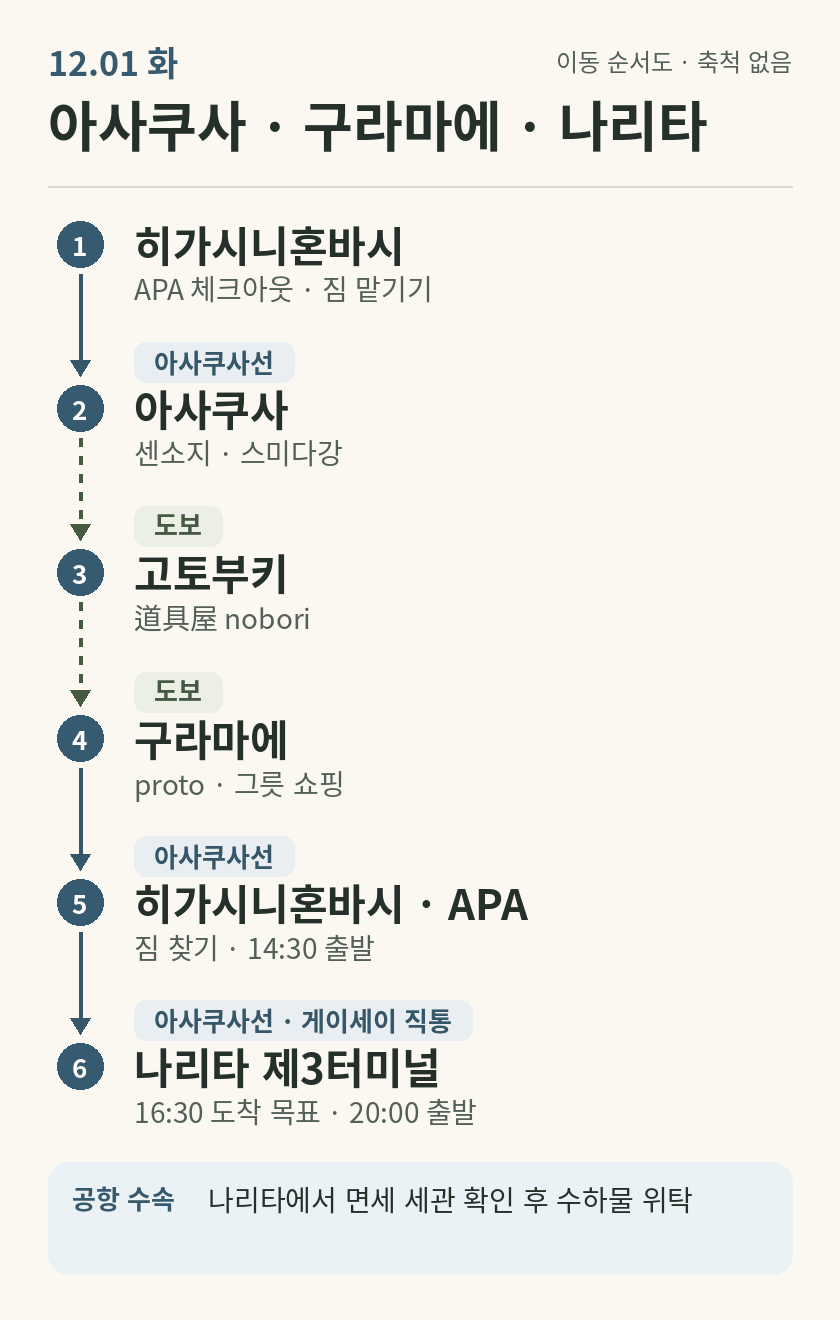
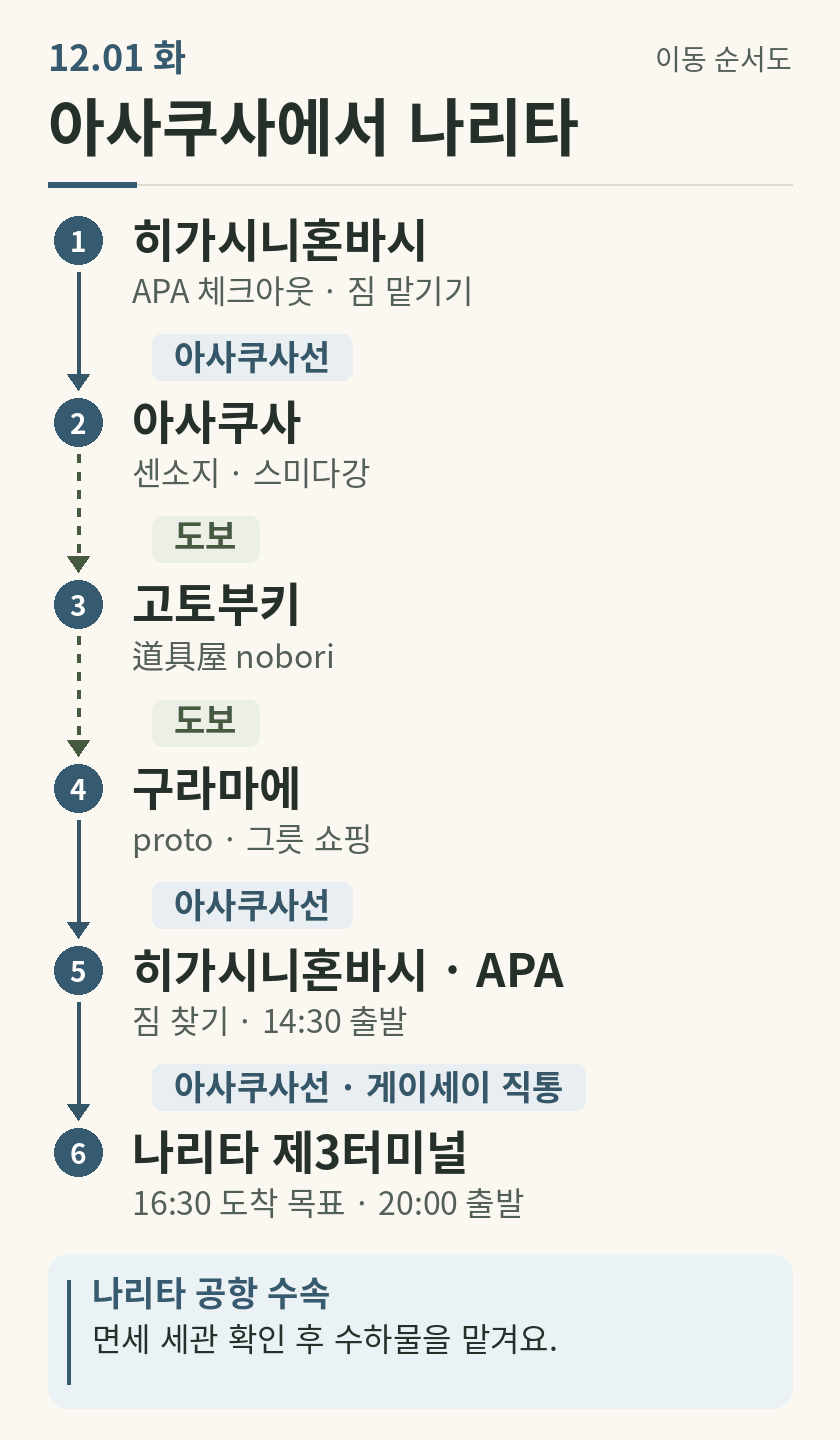
Refine route-map typography and vertical spacing

Changed region(s): [[0.0619, 0.0311, 0.9595, 0.9629]]

diff --git a/app.js b/app.js
@@ -45,9 +45,9 @@
   "APA → 아사쿠사선으로 아사쿠사 → 도보로 고토부키의 nobori와 구라마에의 proto → 아사쿠사선으로 APA에 돌아와 짐 찾기 → 공항철도로 나리타 제3터미널. 16:30 도착 목표."
 ];
  function routeMap(d) {
-  const file = `route-maps/day-${String(d.id + 1).padStart(2, '0')}.png?v=2`;
+  const file = `route-maps/day-${String(d.id + 1).padStart(2, '0')}.png?v=3`;
   return `<figure class="route-map">
-   <img src="${file}" width="840" height="1320" alt="${esc(routeMapDescriptions[d.id])}" loading="lazy" decoding="async">
+   <img src="${file}" width="840" height="1440" alt="${esc(routeMapDescriptions[d.id])}" loading="lazy" decoding="async">
    <figcaption><span>위에서 아래로 이동 순서를 확인해요.</span><a href="${file}" target="_blank" rel="noopener noreferrer" aria-label="${d.date} 이동 지도 크게 보기">지도 크게 보기</a></figcaption>
   </figure>`;
  }

diff --git a/index.html b/index.html
@@ -45,5 +45,5 @@
 <section id="sources" class="section"><div class="sectionhead"><div><span class="sectionindex">Source notes / Updated 2026.11.06</span><h2>가격의 기준과 공식 안내</h2></div><p>운임은 현재 공지·경로 검색의 참고금액.<br>출발일의 시간표·예약 화면에서 최종 확인하세요.</p></div><div class="sources" id="sourceslist"></div></section>
 </main><footer class="wrap"><span class="wordmark">our days<em>.</em></span><span>첫 번째 기념일을 위한 도쿄 노트 · 2026<br>계획용 일정 / 예약·결제 기능 없음</span><a href="#">맨 위로 ↑</a></footer>
 <div class="toast" id="toast" role="status" hidden></div>
-<script src="data.js"></script><script src="app.js?v=routes-2"></script>
+<script src="data.js"></script><script src="app.js?v=routes-3"></script>
 </body></html>
